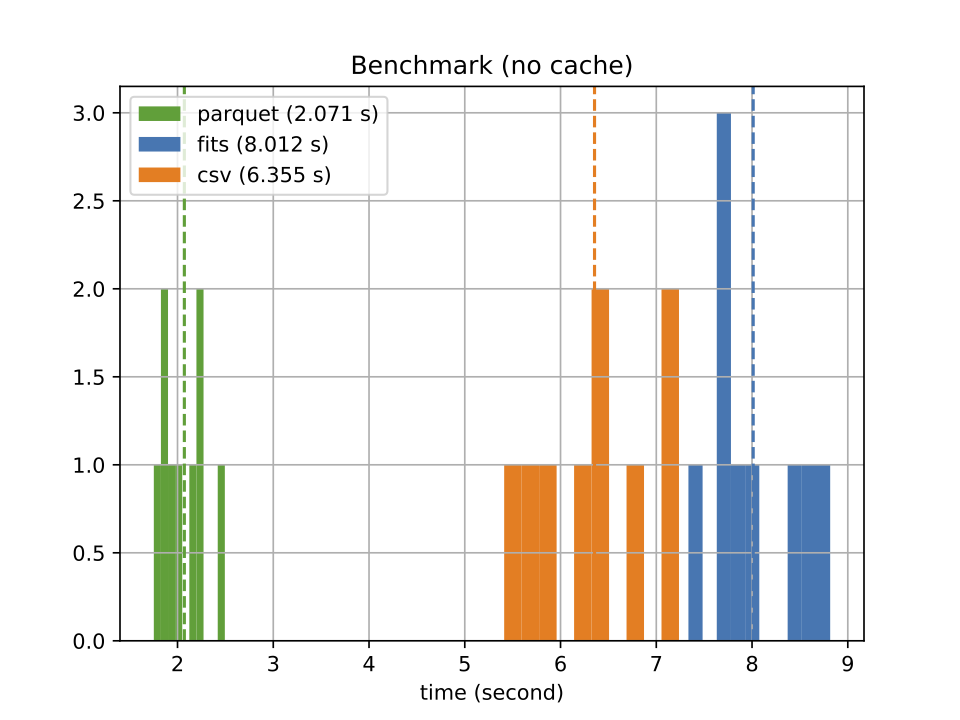
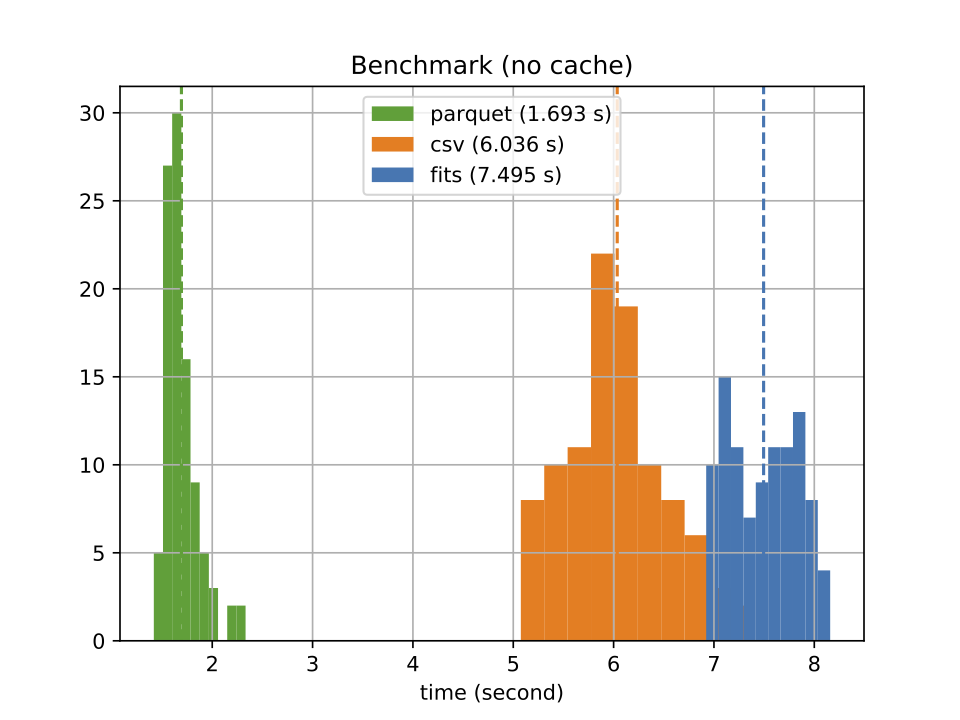
Update the benchamrk to 100 iterations

diff --git a/README.md b/README.md
@@ -18,7 +18,7 @@ Configuration:
 - HDFS 2.8.4
 - Input dataset: 370,000,000 objects (x, y, z)
 - 153 cores (9 executors), 300 GB RAM total
-- No cache: 10 iterations
+- No cache: 100 iterations (data read)
 - Data in memory: 100 iterations (data read and put in cache at the 1st iteration)
 
 <p align="center"><img width="800" src="https://github.com/astrolabsoftware/sparkioref/raw/master/pic/benchmark_370million_nocache.png"/>
